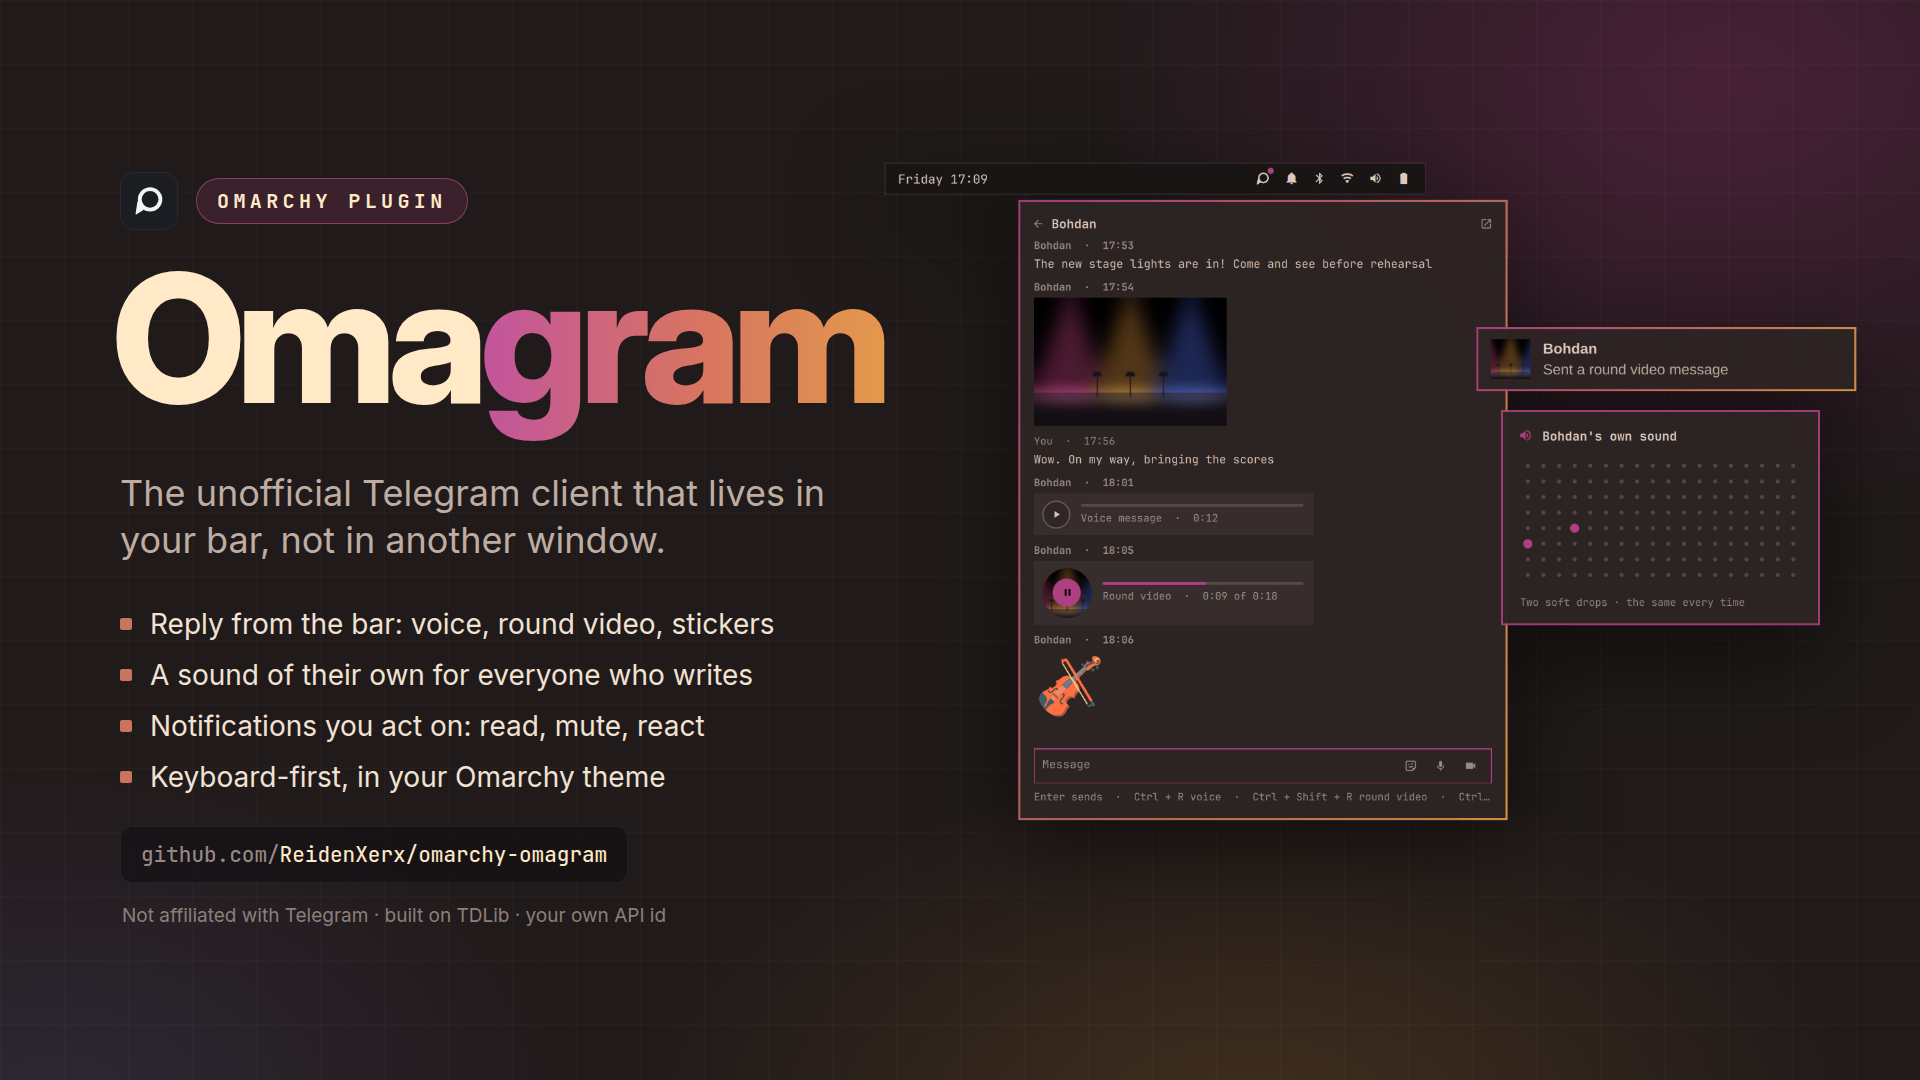
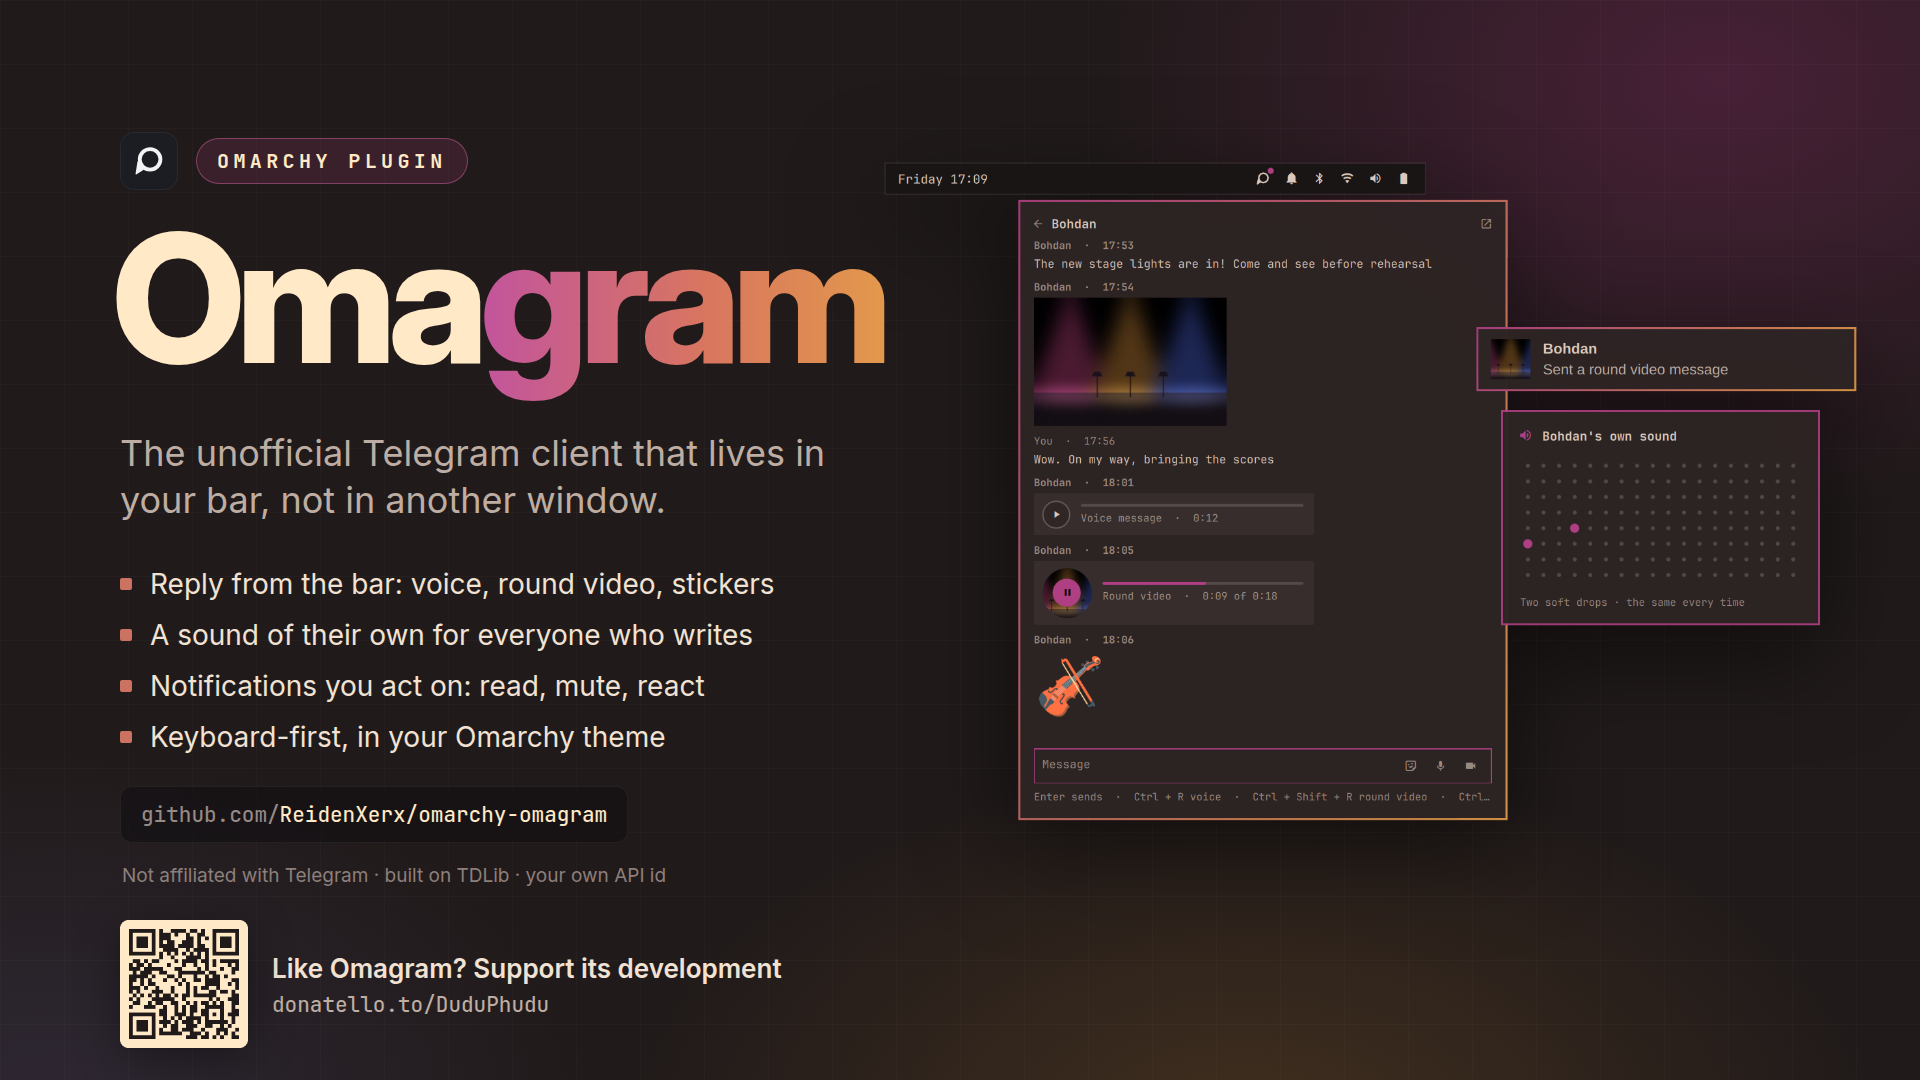
Support link: a Support section and a QR code on the preview
The README ends with a Support section linking to
https://donatello.to/DuduPhudu, and the marketplace preview carries a
QR code for the same page below the repository line.

Claude-Session: https://claude.ai/code/session_019yo64P8KJNrR6aGx5oYCTz

Changed region(s): [[0.0625, 0.1222, 0.4688, 0.9778]]

diff --git a/README.md b/README.md
@@ -334,6 +334,10 @@ secret-tool clear service omagram               # the API id, hash and database 
 Removing the data does not end the session on Telegram's side: to do that, terminate it from
 Settings → Devices in another Telegram app.
 
+## Support
+
+If Omagram is useful to you, you can support its development on [Donatello](https://donatello.to/DuduPhudu).
+
 ## License
 
 MIT. TDLib is © Aliaksei Levin and Arseny Smirnov, under the Boost Software License 1.0;
